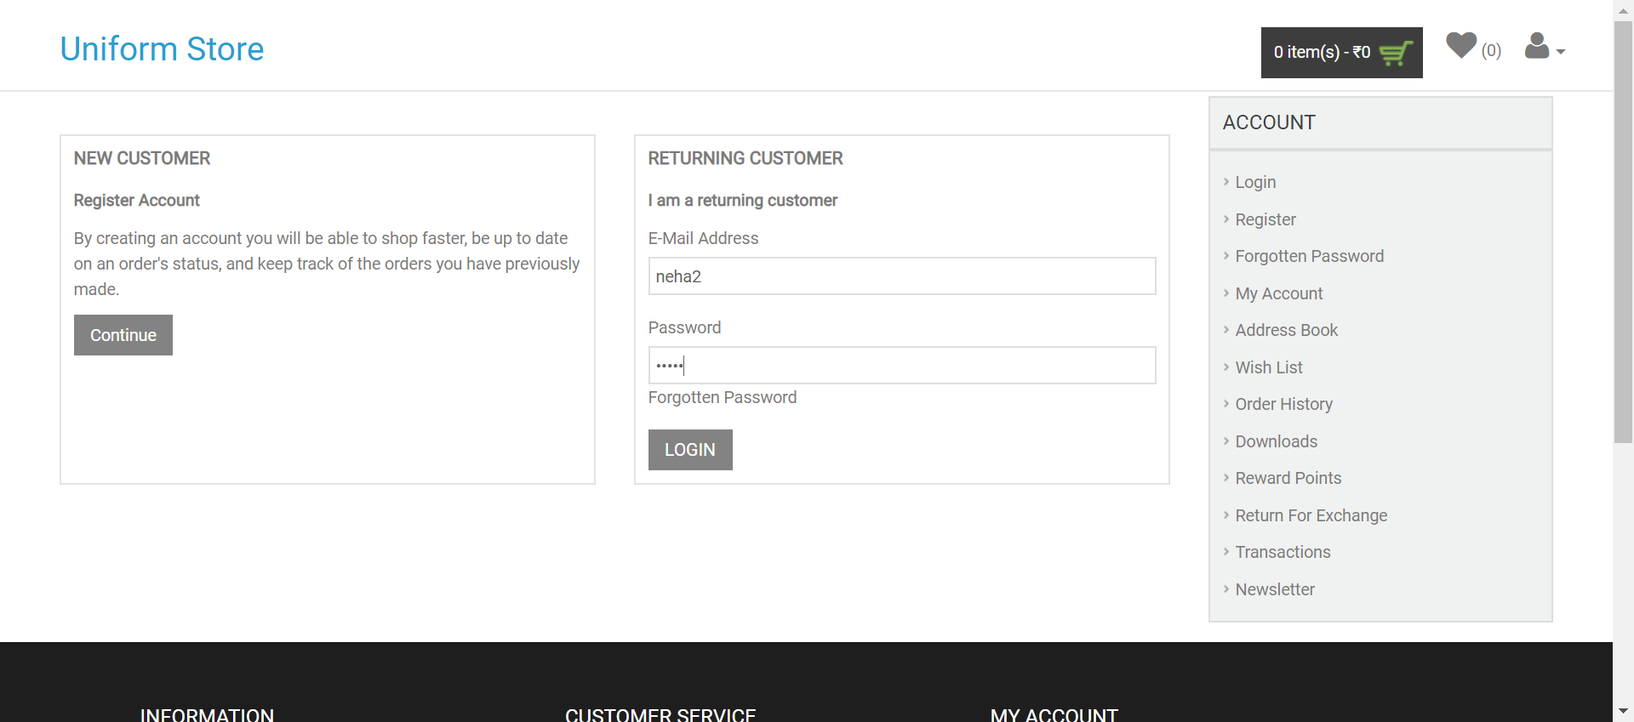
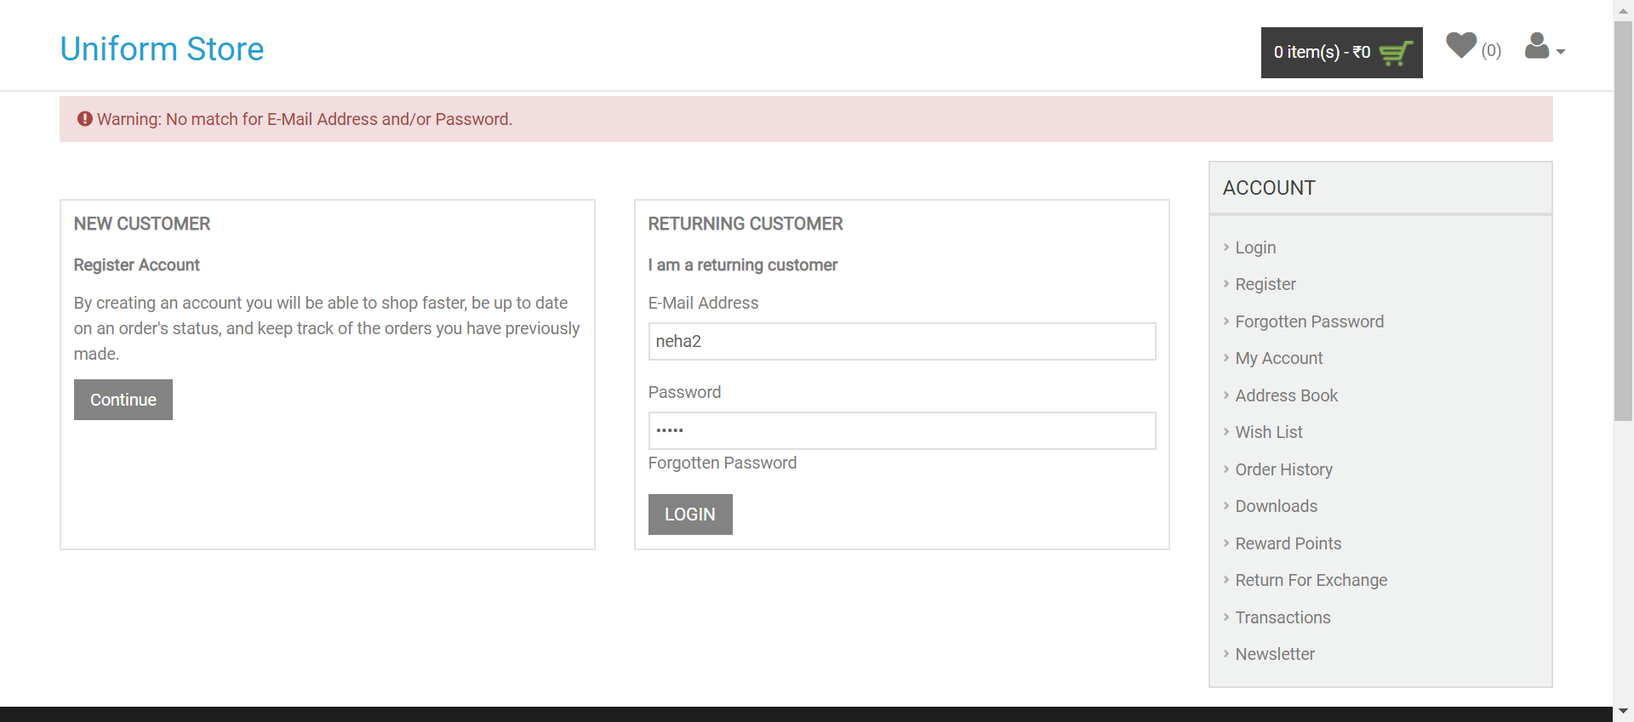
MultipleInputs

Changed region(s): [[0.0312, 0.1225, 0.9375, 0.7656], [0.0, 0.245, 1.0, 1.0], [0.9688, 0.5819, 1.0, 0.6125]]

diff --git a/final-framework-testng/test-output/old/Default suite/methods-alphabetical.html b/final-framework-testng/test-output/old/Default suite/methods-alphabetical.html
@@ -1,36 +1,36 @@
 <h2>Methods run, sorted chronologically</h2><h3>&gt;&gt; means before, &lt;&lt; means after</h3><p/><br/><em>Default suite</em><p/><small><i>(Hover the method name to see the test class name)</i></small><p/>
 <table border="1">
 <tr><th>Time</th><th>Delta (ms)</th><th>Suite<br>configuration</th><th>Test<br>configuration</th><th>Class<br>configuration</th><th>Groups<br>configuration</th><th>Method<br>configuration</th><th>Test<br>method</th><th>Thread</th><th>Instances</th></tr>
-<tr bgcolor="7e7986">  <td>20/03/09 15:55:36</td>   <td>0</td> <td>&nbsp;</td><td>&nbsp;</td><td>&nbsp;</td><td>&nbsp;</td><td title="&gt;&gt;Multipleinputs.setUp()[pri:0, instance:com.training.sanity.tests.Multipleinputs@55f3ddb1]">&gt;&gt;setUp</td> 
+<tr bgcolor="7e7986">  <td>20/03/09 16:36:33</td>   <td>0</td> <td>&nbsp;</td><td>&nbsp;</td><td>&nbsp;</td><td>&nbsp;</td><td title="&gt;&gt;Multipleinputs.setUp()[pri:0, instance:com.training.sanity.tests.Multipleinputs@55f3ddb1]">&gt;&gt;setUp</td> 
 <td>&nbsp;</td>  <td>main@1333592072</td>   <td></td> </tr>
-<tr bgcolor="7e7986">  <td>20/03/09 15:55:59</td>   <td>22910</td> <td>&nbsp;</td><td>&nbsp;</td><td>&nbsp;</td><td>&nbsp;</td><td title="&gt;&gt;Multipleinputs.setUp()[pri:0, instance:com.training.sanity.tests.Multipleinputs@55f3ddb1]">&gt;&gt;setUp</td> 
+<tr bgcolor="7e7986">  <td>20/03/09 16:36:57</td>   <td>24700</td> <td>&nbsp;</td><td>&nbsp;</td><td>&nbsp;</td><td>&nbsp;</td><td title="&gt;&gt;Multipleinputs.setUp()[pri:0, instance:com.training.sanity.tests.Multipleinputs@55f3ddb1]">&gt;&gt;setUp</td> 
 <td>&nbsp;</td>  <td>main@1333592072</td>   <td></td> </tr>
-<tr bgcolor="7e7986">  <td>20/03/09 15:56:19</td>   <td>43765</td> <td>&nbsp;</td><td>&nbsp;</td><td>&nbsp;</td><td>&nbsp;</td><td title="&gt;&gt;Multipleinputs.setUp()[pri:0, instance:com.training.sanity.tests.Multipleinputs@55f3ddb1]">&gt;&gt;setUp</td> 
+<tr bgcolor="7e7986">  <td>20/03/09 16:37:20</td>   <td>47680</td> <td>&nbsp;</td><td>&nbsp;</td><td>&nbsp;</td><td>&nbsp;</td><td title="&gt;&gt;Multipleinputs.setUp()[pri:0, instance:com.training.sanity.tests.Multipleinputs@55f3ddb1]">&gt;&gt;setUp</td> 
 <td>&nbsp;</td>  <td>main@1333592072</td>   <td></td> </tr>
-<tr bgcolor="7e7986">  <td>20/03/09 15:56:41</td>   <td>65629</td> <td>&nbsp;</td><td>&nbsp;</td><td>&nbsp;</td><td>&nbsp;</td><td title="&gt;&gt;Multipleinputs.setUp()[pri:0, instance:com.training.sanity.tests.Multipleinputs@55f3ddb1]">&gt;&gt;setUp</td> 
+<tr bgcolor="7e7986">  <td>20/03/09 16:37:43</td>   <td>70365</td> <td>&nbsp;</td><td>&nbsp;</td><td>&nbsp;</td><td>&nbsp;</td><td title="&gt;&gt;Multipleinputs.setUp()[pri:0, instance:com.training.sanity.tests.Multipleinputs@55f3ddb1]">&gt;&gt;setUp</td> 
 <td>&nbsp;</td>  <td>main@1333592072</td>   <td></td> </tr>
-<tr bgcolor="7e7986">  <td>20/03/09 15:57:02</td>   <td>86717</td> <td>&nbsp;</td><td>&nbsp;</td><td>&nbsp;</td><td>&nbsp;</td><td title="&gt;&gt;Multipleinputs.setUp()[pri:0, instance:com.training.sanity.tests.Multipleinputs@55f3ddb1]">&gt;&gt;setUp</td> 
+<tr bgcolor="7e7986">  <td>20/03/09 16:38:05</td>   <td>92843</td> <td>&nbsp;</td><td>&nbsp;</td><td>&nbsp;</td><td>&nbsp;</td><td title="&gt;&gt;Multipleinputs.setUp()[pri:0, instance:com.training.sanity.tests.Multipleinputs@55f3ddb1]">&gt;&gt;setUp</td> 
 <td>&nbsp;</td>  <td>main@1333592072</td>   <td></td> </tr>
-<tr bgcolor="7e7986">  <td>20/03/09 15:55:34</td>   <td>-1184</td> <td>&nbsp;</td><td>&nbsp;</td><td title="&gt;&gt;Multipleinputs.setUpBeforeClass()[pri:0, instance:com.training.sanity.tests.Multipleinputs@55f3ddb1]">&gt;&gt;setUpBeforeClass</td> 
+<tr bgcolor="7e7986">  <td>20/03/09 16:36:32</td>   <td>-853</td> <td>&nbsp;</td><td>&nbsp;</td><td title="&gt;&gt;Multipleinputs.setUpBeforeClass()[pri:0, instance:com.training.sanity.tests.Multipleinputs@55f3ddb1]">&gt;&gt;setUpBeforeClass</td> 
 <td>&nbsp;</td><td>&nbsp;</td><td>&nbsp;</td>  <td>main@1333592072</td>   <td></td> </tr>
-<tr bgcolor="7e7986">  <td>20/03/09 15:55:56</td>   <td>20582</td> <td>&nbsp;</td><td>&nbsp;</td><td>&nbsp;</td><td>&nbsp;</td><td title="&lt;&lt;Multipleinputs.tearDown()[pri:0, instance:com.training.sanity.tests.Multipleinputs@55f3ddb1]">&lt;&lt;tearDown</td> 
+<tr bgcolor="7e7986">  <td>20/03/09 16:36:55</td>   <td>22697</td> <td>&nbsp;</td><td>&nbsp;</td><td>&nbsp;</td><td>&nbsp;</td><td title="&lt;&lt;Multipleinputs.tearDown()[pri:0, instance:com.training.sanity.tests.Multipleinputs@55f3ddb1]">&lt;&lt;tearDown</td> 
 <td>&nbsp;</td>  <td>main@1333592072</td>   <td></td> </tr>
-<tr bgcolor="7e7986">  <td>20/03/09 15:56:17</td>   <td>41504</td> <td>&nbsp;</td><td>&nbsp;</td><td>&nbsp;</td><td>&nbsp;</td><td title="&lt;&lt;Multipleinputs.tearDown()[pri:0, instance:com.training.sanity.tests.Multipleinputs@55f3ddb1]">&lt;&lt;tearDown</td> 
+<tr bgcolor="7e7986">  <td>20/03/09 16:37:18</td>   <td>45474</td> <td>&nbsp;</td><td>&nbsp;</td><td>&nbsp;</td><td>&nbsp;</td><td title="&lt;&lt;Multipleinputs.tearDown()[pri:0, instance:com.training.sanity.tests.Multipleinputs@55f3ddb1]">&lt;&lt;tearDown</td> 
 <td>&nbsp;</td>  <td>main@1333592072</td>   <td></td> </tr>
-<tr bgcolor="7e7986">  <td>20/03/09 15:56:39</td>   <td>63433</td> <td>&nbsp;</td><td>&nbsp;</td><td>&nbsp;</td><td>&nbsp;</td><td title="&lt;&lt;Multipleinputs.tearDown()[pri:0, instance:com.training.sanity.tests.Multipleinputs@55f3ddb1]">&lt;&lt;tearDown</td> 
+<tr bgcolor="7e7986">  <td>20/03/09 16:37:41</td>   <td>68428</td> <td>&nbsp;</td><td>&nbsp;</td><td>&nbsp;</td><td>&nbsp;</td><td title="&lt;&lt;Multipleinputs.tearDown()[pri:0, instance:com.training.sanity.tests.Multipleinputs@55f3ddb1]">&lt;&lt;tearDown</td> 
 <td>&nbsp;</td>  <td>main@1333592072</td>   <td></td> </tr>
-<tr bgcolor="7e7986">  <td>20/03/09 15:57:00</td>   <td>84617</td> <td>&nbsp;</td><td>&nbsp;</td><td>&nbsp;</td><td>&nbsp;</td><td title="&lt;&lt;Multipleinputs.tearDown()[pri:0, instance:com.training.sanity.tests.Multipleinputs@55f3ddb1]">&lt;&lt;tearDown</td> 
+<tr bgcolor="7e7986">  <td>20/03/09 16:38:04</td>   <td>90867</td> <td>&nbsp;</td><td>&nbsp;</td><td>&nbsp;</td><td>&nbsp;</td><td title="&lt;&lt;Multipleinputs.tearDown()[pri:0, instance:com.training.sanity.tests.Multipleinputs@55f3ddb1]">&lt;&lt;tearDown</td> 
 <td>&nbsp;</td>  <td>main@1333592072</td>   <td></td> </tr>
-<tr bgcolor="7e7986">  <td>20/03/09 15:57:20</td>   <td>104429</td> <td>&nbsp;</td><td>&nbsp;</td><td>&nbsp;</td><td>&nbsp;</td><td title="&lt;&lt;Multipleinputs.tearDown()[pri:0, instance:com.training.sanity.tests.Multipleinputs@55f3ddb1]">&lt;&lt;tearDown</td> 
+<tr bgcolor="7e7986">  <td>20/03/09 16:38:26</td>   <td>112917</td> <td>&nbsp;</td><td>&nbsp;</td><td>&nbsp;</td><td>&nbsp;</td><td title="&lt;&lt;Multipleinputs.tearDown()[pri:0, instance:com.training.sanity.tests.Multipleinputs@55f3ddb1]">&lt;&lt;tearDown</td> 
 <td>&nbsp;</td>  <td>main@1333592072</td>   <td></td> </tr>
-<tr bgcolor="7e7986">  <td>20/03/09 15:55:53</td>   <td>17459</td> <td>&nbsp;</td><td>&nbsp;</td><td>&nbsp;</td><td>&nbsp;</td><td>&nbsp;</td><td title="Multipleinputs.validLoginTest(java.lang.String, java.lang.String, java.lang.String)[pri:0, instance:com.training.sanity.tests.Multipleinputs@55f3ddb1]">validLoginTest</td> 
+<tr bgcolor="7e7986">  <td>20/03/09 16:36:51</td>   <td>18581</td> <td>&nbsp;</td><td>&nbsp;</td><td>&nbsp;</td><td>&nbsp;</td><td>&nbsp;</td><td title="Multipleinputs.validLoginTest(java.lang.String, java.lang.String, java.lang.String)[pri:0, instance:com.training.sanity.tests.Multipleinputs@55f3ddb1]">validLoginTest</td> 
   <td>main@1333592072</td>   <td></td> </tr>
-<tr bgcolor="7e7986">  <td>20/03/09 15:56:14</td>   <td>38418</td> <td>&nbsp;</td><td>&nbsp;</td><td>&nbsp;</td><td>&nbsp;</td><td>&nbsp;</td><td title="Multipleinputs.validLoginTest(java.lang.String, java.lang.String, java.lang.String)[pri:0, instance:com.training.sanity.tests.Multipleinputs@55f3ddb1]">validLoginTest</td> 
+<tr bgcolor="7e7986">  <td>20/03/09 16:37:13</td>   <td>40048</td> <td>&nbsp;</td><td>&nbsp;</td><td>&nbsp;</td><td>&nbsp;</td><td>&nbsp;</td><td title="Multipleinputs.validLoginTest(java.lang.String, java.lang.String, java.lang.String)[pri:0, instance:com.training.sanity.tests.Multipleinputs@55f3ddb1]">validLoginTest</td> 
   <td>main@1333592072</td>   <td></td> </tr>
-<tr bgcolor="7e7986">  <td>20/03/09 15:56:35</td>   <td>59733</td> <td>&nbsp;</td><td>&nbsp;</td><td>&nbsp;</td><td>&nbsp;</td><td>&nbsp;</td><td title="Multipleinputs.validLoginTest(java.lang.String, java.lang.String, java.lang.String)[pri:0, instance:com.training.sanity.tests.Multipleinputs@55f3ddb1]">validLoginTest</td> 
+<tr bgcolor="7e7986">  <td>20/03/09 16:37:37</td>   <td>64130</td> <td>&nbsp;</td><td>&nbsp;</td><td>&nbsp;</td><td>&nbsp;</td><td>&nbsp;</td><td title="Multipleinputs.validLoginTest(java.lang.String, java.lang.String, java.lang.String)[pri:0, instance:com.training.sanity.tests.Multipleinputs@55f3ddb1]">validLoginTest</td> 
   <td>main@1333592072</td>   <td></td> </tr>
-<tr bgcolor="7e7986">  <td>20/03/09 15:56:58</td>   <td>82116</td> <td>&nbsp;</td><td>&nbsp;</td><td>&nbsp;</td><td>&nbsp;</td><td>&nbsp;</td><td title="Multipleinputs.validLoginTest(java.lang.String, java.lang.String, java.lang.String)[pri:0, instance:com.training.sanity.tests.Multipleinputs@55f3ddb1]">validLoginTest</td> 
+<tr bgcolor="7e7986">  <td>20/03/09 16:37:59</td>   <td>86606</td> <td>&nbsp;</td><td>&nbsp;</td><td>&nbsp;</td><td>&nbsp;</td><td>&nbsp;</td><td title="Multipleinputs.validLoginTest(java.lang.String, java.lang.String, java.lang.String)[pri:0, instance:com.training.sanity.tests.Multipleinputs@55f3ddb1]">validLoginTest</td> 
   <td>main@1333592072</td>   <td></td> </tr>
-<tr bgcolor="7e7986">  <td>20/03/09 15:57:17</td>   <td>101831</td> <td>&nbsp;</td><td>&nbsp;</td><td>&nbsp;</td><td>&nbsp;</td><td>&nbsp;</td><td title="Multipleinputs.validLoginTest(java.lang.String, java.lang.String, java.lang.String)[pri:0, instance:com.training.sanity.tests.Multipleinputs@55f3ddb1]">validLoginTest</td> 
+<tr bgcolor="7e7986">  <td>20/03/09 16:38:21</td>   <td>108629</td> <td>&nbsp;</td><td>&nbsp;</td><td>&nbsp;</td><td>&nbsp;</td><td>&nbsp;</td><td title="Multipleinputs.validLoginTest(java.lang.String, java.lang.String, java.lang.String)[pri:0, instance:com.training.sanity.tests.Multipleinputs@55f3ddb1]">validLoginTest</td> 
   <td>main@1333592072</td>   <td></td> </tr>
 </table>

diff --git a/final-framework-testng/test-output/old/Default suite/methods.html b/final-framework-testng/test-output/old/Default suite/methods.html
@@ -1,36 +1,36 @@
 <h2>Methods run, sorted chronologically</h2><h3>&gt;&gt; means before, &lt;&lt; means after</h3><p/><br/><em>Default suite</em><p/><small><i>(Hover the method name to see the test class name)</i></small><p/>
 <table border="1">
 <tr><th>Time</th><th>Delta (ms)</th><th>Suite<br>configuration</th><th>Test<br>configuration</th><th>Class<br>configuration</th><th>Groups<br>configuration</th><th>Method<br>configuration</th><th>Test<br>method</th><th>Thread</th><th>Instances</th></tr>
-<tr bgcolor="7e7986">  <td>20/03/09 15:55:34</td>   <td>0</td> <td>&nbsp;</td><td>&nbsp;</td><td title="&gt;&gt;Multipleinputs.setUpBeforeClass()[pri:0, instance:com.training.sanity.tests.Multipleinputs@55f3ddb1]">&gt;&gt;setUpBeforeClass</td> 
+<tr bgcolor="7e7986">  <td>20/03/09 16:36:32</td>   <td>0</td> <td>&nbsp;</td><td>&nbsp;</td><td title="&gt;&gt;Multipleinputs.setUpBeforeClass()[pri:0, instance:com.training.sanity.tests.Multipleinputs@55f3ddb1]">&gt;&gt;setUpBeforeClass</td> 
 <td>&nbsp;</td><td>&nbsp;</td><td>&nbsp;</td>  <td>main@1333592072</td>   <td></td> </tr>
-<tr bgcolor="7e7986">  <td>20/03/09 15:55:36</td>   <td>1184</td> <td>&nbsp;</td><td>&nbsp;</td><td>&nbsp;</td><td>&nbsp;</td><td title="&gt;&gt;Multipleinputs.setUp()[pri:0, instance:com.training.sanity.tests.Multipleinputs@55f3ddb1]">&gt;&gt;setUp</td> 
+<tr bgcolor="7e7986">  <td>20/03/09 16:36:33</td>   <td>853</td> <td>&nbsp;</td><td>&nbsp;</td><td>&nbsp;</td><td>&nbsp;</td><td title="&gt;&gt;Multipleinputs.setUp()[pri:0, instance:com.training.sanity.tests.Multipleinputs@55f3ddb1]">&gt;&gt;setUp</td> 
 <td>&nbsp;</td>  <td>main@1333592072</td>   <td></td> </tr>
-<tr bgcolor="7e7986">  <td>20/03/09 15:55:53</td>   <td>18643</td> <td>&nbsp;</td><td>&nbsp;</td><td>&nbsp;</td><td>&nbsp;</td><td>&nbsp;</td><td title="Multipleinputs.validLoginTest(java.lang.String, java.lang.String, java.lang.String)[pri:0, instance:com.training.sanity.tests.Multipleinputs@55f3ddb1]">validLoginTest</td> 
+<tr bgcolor="7e7986">  <td>20/03/09 16:36:51</td>   <td>19434</td> <td>&nbsp;</td><td>&nbsp;</td><td>&nbsp;</td><td>&nbsp;</td><td>&nbsp;</td><td title="Multipleinputs.validLoginTest(java.lang.String, java.lang.String, java.lang.String)[pri:0, instance:com.training.sanity.tests.Multipleinputs@55f3ddb1]">validLoginTest</td> 
   <td>main@1333592072</td>   <td></td> </tr>
-<tr bgcolor="7e7986">  <td>20/03/09 15:55:56</td>   <td>21766</td> <td>&nbsp;</td><td>&nbsp;</td><td>&nbsp;</td><td>&nbsp;</td><td title="&lt;&lt;Multipleinputs.tearDown()[pri:0, instance:com.training.sanity.tests.Multipleinputs@55f3ddb1]">&lt;&lt;tearDown</td> 
+<tr bgcolor="7e7986">  <td>20/03/09 16:36:55</td>   <td>23550</td> <td>&nbsp;</td><td>&nbsp;</td><td>&nbsp;</td><td>&nbsp;</td><td title="&lt;&lt;Multipleinputs.tearDown()[pri:0, instance:com.training.sanity.tests.Multipleinputs@55f3ddb1]">&lt;&lt;tearDown</td> 
 <td>&nbsp;</td>  <td>main@1333592072</td>   <td></td> </tr>
-<tr bgcolor="7e7986">  <td>20/03/09 15:55:59</td>   <td>24094</td> <td>&nbsp;</td><td>&nbsp;</td><td>&nbsp;</td><td>&nbsp;</td><td title="&gt;&gt;Multipleinputs.setUp()[pri:0, instance:com.training.sanity.tests.Multipleinputs@55f3ddb1]">&gt;&gt;setUp</td> 
+<tr bgcolor="7e7986">  <td>20/03/09 16:36:57</td>   <td>25553</td> <td>&nbsp;</td><td>&nbsp;</td><td>&nbsp;</td><td>&nbsp;</td><td title="&gt;&gt;Multipleinputs.setUp()[pri:0, instance:com.training.sanity.tests.Multipleinputs@55f3ddb1]">&gt;&gt;setUp</td> 
 <td>&nbsp;</td>  <td>main@1333592072</td>   <td></td> </tr>
-<tr bgcolor="7e7986">  <td>20/03/09 15:56:14</td>   <td>39602</td> <td>&nbsp;</td><td>&nbsp;</td><td>&nbsp;</td><td>&nbsp;</td><td>&nbsp;</td><td title="Multipleinputs.validLoginTest(java.lang.String, java.lang.String, java.lang.String)[pri:0, instance:com.training.sanity.tests.Multipleinputs@55f3ddb1]">validLoginTest</td> 
+<tr bgcolor="7e7986">  <td>20/03/09 16:37:13</td>   <td>40901</td> <td>&nbsp;</td><td>&nbsp;</td><td>&nbsp;</td><td>&nbsp;</td><td>&nbsp;</td><td title="Multipleinputs.validLoginTest(java.lang.String, java.lang.String, java.lang.String)[pri:0, instance:com.training.sanity.tests.Multipleinputs@55f3ddb1]">validLoginTest</td> 
   <td>main@1333592072</td>   <td></td> </tr>
-<tr bgcolor="7e7986">  <td>20/03/09 15:56:17</td>   <td>42688</td> <td>&nbsp;</td><td>&nbsp;</td><td>&nbsp;</td><td>&nbsp;</td><td title="&lt;&lt;Multipleinputs.tearDown()[pri:0, instance:com.training.sanity.tests.Multipleinputs@55f3ddb1]">&lt;&lt;tearDown</td> 
+<tr bgcolor="7e7986">  <td>20/03/09 16:37:18</td>   <td>46327</td> <td>&nbsp;</td><td>&nbsp;</td><td>&nbsp;</td><td>&nbsp;</td><td title="&lt;&lt;Multipleinputs.tearDown()[pri:0, instance:com.training.sanity.tests.Multipleinputs@55f3ddb1]">&lt;&lt;tearDown</td> 
 <td>&nbsp;</td>  <td>main@1333592072</td>   <td></td> </tr>
-<tr bgcolor="7e7986">  <td>20/03/09 15:56:19</td>   <td>44949</td> <td>&nbsp;</td><td>&nbsp;</td><td>&nbsp;</td><td>&nbsp;</td><td title="&gt;&gt;Multipleinputs.setUp()[pri:0, instance:com.training.sanity.tests.Multipleinputs@55f3ddb1]">&gt;&gt;setUp</td> 
+<tr bgcolor="7e7986">  <td>20/03/09 16:37:20</td>   <td>48533</td> <td>&nbsp;</td><td>&nbsp;</td><td>&nbsp;</td><td>&nbsp;</td><td title="&gt;&gt;Multipleinputs.setUp()[pri:0, instance:com.training.sanity.tests.Multipleinputs@55f3ddb1]">&gt;&gt;setUp</td> 
 <td>&nbsp;</td>  <td>main@1333592072</td>   <td></td> </tr>
-<tr bgcolor="7e7986">  <td>20/03/09 15:56:35</td>   <td>60917</td> <td>&nbsp;</td><td>&nbsp;</td><td>&nbsp;</td><td>&nbsp;</td><td>&nbsp;</td><td title="Multipleinputs.validLoginTest(java.lang.String, java.lang.String, java.lang.String)[pri:0, instance:com.training.sanity.tests.Multipleinputs@55f3ddb1]">validLoginTest</td> 
+<tr bgcolor="7e7986">  <td>20/03/09 16:37:37</td>   <td>64983</td> <td>&nbsp;</td><td>&nbsp;</td><td>&nbsp;</td><td>&nbsp;</td><td>&nbsp;</td><td title="Multipleinputs.validLoginTest(java.lang.String, java.lang.String, java.lang.String)[pri:0, instance:com.training.sanity.tests.Multipleinputs@55f3ddb1]">validLoginTest</td> 
   <td>main@1333592072</td>   <td></td> </tr>
-<tr bgcolor="7e7986">  <td>20/03/09 15:56:39</td>   <td>64617</td> <td>&nbsp;</td><td>&nbsp;</td><td>&nbsp;</td><td>&nbsp;</td><td title="&lt;&lt;Multipleinputs.tearDown()[pri:0, instance:com.training.sanity.tests.Multipleinputs@55f3ddb1]">&lt;&lt;tearDown</td> 
+<tr bgcolor="7e7986">  <td>20/03/09 16:37:41</td>   <td>69281</td> <td>&nbsp;</td><td>&nbsp;</td><td>&nbsp;</td><td>&nbsp;</td><td title="&lt;&lt;Multipleinputs.tearDown()[pri:0, instance:com.training.sanity.tests.Multipleinputs@55f3ddb1]">&lt;&lt;tearDown</td> 
 <td>&nbsp;</td>  <td>main@1333592072</td>   <td></td> </tr>
-<tr bgcolor="7e7986">  <td>20/03/09 15:56:41</td>   <td>66813</td> <td>&nbsp;</td><td>&nbsp;</td><td>&nbsp;</td><td>&nbsp;</td><td title="&gt;&gt;Multipleinputs.setUp()[pri:0, instance:com.training.sanity.tests.Multipleinputs@55f3ddb1]">&gt;&gt;setUp</td> 
+<tr bgcolor="7e7986">  <td>20/03/09 16:37:43</td>   <td>71218</td> <td>&nbsp;</td><td>&nbsp;</td><td>&nbsp;</td><td>&nbsp;</td><td title="&gt;&gt;Multipleinputs.setUp()[pri:0, instance:com.training.sanity.tests.Multipleinputs@55f3ddb1]">&gt;&gt;setUp</td> 
 <td>&nbsp;</td>  <td>main@1333592072</td>   <td></td> </tr>
-<tr bgcolor="7e7986">  <td>20/03/09 15:56:58</td>   <td>83300</td> <td>&nbsp;</td><td>&nbsp;</td><td>&nbsp;</td><td>&nbsp;</td><td>&nbsp;</td><td title="Multipleinputs.validLoginTest(java.lang.String, java.lang.String, java.lang.String)[pri:0, instance:com.training.sanity.tests.Multipleinputs@55f3ddb1]">validLoginTest</td> 
+<tr bgcolor="7e7986">  <td>20/03/09 16:37:59</td>   <td>87459</td> <td>&nbsp;</td><td>&nbsp;</td><td>&nbsp;</td><td>&nbsp;</td><td>&nbsp;</td><td title="Multipleinputs.validLoginTest(java.lang.String, java.lang.String, java.lang.String)[pri:0, instance:com.training.sanity.tests.Multipleinputs@55f3ddb1]">validLoginTest</td> 
   <td>main@1333592072</td>   <td></td> </tr>
-<tr bgcolor="7e7986">  <td>20/03/09 15:57:00</td>   <td>85801</td> <td>&nbsp;</td><td>&nbsp;</td><td>&nbsp;</td><td>&nbsp;</td><td title="&lt;&lt;Multipleinputs.tearDown()[pri:0, instance:com.training.sanity.tests.Multipleinputs@55f3ddb1]">&lt;&lt;tearDown</td> 
+<tr bgcolor="7e7986">  <td>20/03/09 16:38:04</td>   <td>91720</td> <td>&nbsp;</td><td>&nbsp;</td><td>&nbsp;</td><td>&nbsp;</td><td title="&lt;&lt;Multipleinputs.tearDown()[pri:0, instance:com.training.sanity.tests.Multipleinputs@55f3ddb1]">&lt;&lt;tearDown</td> 
 <td>&nbsp;</td>  <td>main@1333592072</td>   <td></td> </tr>
-<tr bgcolor="7e7986">  <td>20/03/09 15:57:02</td>   <td>87901</td> <td>&nbsp;</td><td>&nbsp;</td><td>&nbsp;</td><td>&nbsp;</td><td title="&gt;&gt;Multipleinputs.setUp()[pri:0, instance:com.training.sanity.tests.Multipleinputs@55f3ddb1]">&gt;&gt;setUp</td> 
+<tr bgcolor="7e7986">  <td>20/03/09 16:38:05</td>   <td>93696</td> <td>&nbsp;</td><td>&nbsp;</td><td>&nbsp;</td><td>&nbsp;</td><td title="&gt;&gt;Multipleinputs.setUp()[pri:0, instance:com.training.sanity.tests.Multipleinputs@55f3ddb1]">&gt;&gt;setUp</td> 
 <td>&nbsp;</td>  <td>main@1333592072</td>   <td></td> </tr>
-<tr bgcolor="7e7986">  <td>20/03/09 15:57:17</td>   <td>103015</td> <td>&nbsp;</td><td>&nbsp;</td><td>&nbsp;</td><td>&nbsp;</td><td>&nbsp;</td><td title="Multipleinputs.validLoginTest(java.lang.String, java.lang.String, java.lang.String)[pri:0, instance:com.training.sanity.tests.Multipleinputs@55f3ddb1]">validLoginTest</td> 
+<tr bgcolor="7e7986">  <td>20/03/09 16:38:21</td>   <td>109482</td> <td>&nbsp;</td><td>&nbsp;</td><td>&nbsp;</td><td>&nbsp;</td><td>&nbsp;</td><td title="Multipleinputs.validLoginTest(java.lang.String, java.lang.String, java.lang.String)[pri:0, instance:com.training.sanity.tests.Multipleinputs@55f3ddb1]">validLoginTest</td> 
   <td>main@1333592072</td>   <td></td> </tr>
-<tr bgcolor="7e7986">  <td>20/03/09 15:57:20</td>   <td>105613</td> <td>&nbsp;</td><td>&nbsp;</td><td>&nbsp;</td><td>&nbsp;</td><td title="&lt;&lt;Multipleinputs.tearDown()[pri:0, instance:com.training.sanity.tests.Multipleinputs@55f3ddb1]">&lt;&lt;tearDown</td> 
+<tr bgcolor="7e7986">  <td>20/03/09 16:38:26</td>   <td>113770</td> <td>&nbsp;</td><td>&nbsp;</td><td>&nbsp;</td><td>&nbsp;</td><td title="&lt;&lt;Multipleinputs.tearDown()[pri:0, instance:com.training.sanity.tests.Multipleinputs@55f3ddb1]">&lt;&lt;tearDown</td> 
 <td>&nbsp;</td>  <td>main@1333592072</td>   <td></td> </tr>
 </table>

diff --git a/final-framework-testng/test-output/index.html b/final-framework-testng/test-output/index.html
@@ -49,7 +49,7 @@
               <ul>
                 <li>
                   <a href="#" class="navigator-link " panel-name="test-xml-Default_suite">
-                    <span>C:\Users\ThriveniGorantla\AppData\Local\Temp\testng-eclipse--870478166\testng-customsuite.xml</span>
+                    <span>C:\Users\ThriveniGorantla\AppData\Local\Temp\testng-eclipse-1429675520\testng-customsuite.xml</span>
                   </a> <!-- navigator-link  -->
                 </li>
                 <li>
@@ -188,7 +188,7 @@
         </div> <!-- panel Default_suite -->
         <div panel-name="test-xml-Default_suite" class="panel">
           <div class="main-panel-header rounded-window-top">
-            <span class="header-content">C:\Users\ThriveniGorantla\AppData\Local\Temp\testng-eclipse--870478166\testng-customsuite.xml</span>
+            <span class="header-content">C:\Users\ThriveniGorantla\AppData\Local\Temp\testng-eclipse-1429675520\testng-customsuite.xml</span>
           </div> <!-- main-panel-header rounded-window-top -->
           <div class="main-panel-content rounded-window-bottom">
             <pre>
@@ -241,28 +241,28 @@ data.addRows(5);
 data.setCell(0, 0, 0)
 data.setCell(0, 1, 'validLoginTest')
 data.setCell(0, 2, 'com.training.sanity.tests.Multipleinputs')
-data.setCell(0, 3, 3699);
+data.setCell(0, 3, 5425);
 data.setCell(1, 0, 1)
 data.setCell(1, 1, 'validLoginTest')
 data.setCell(1, 2, 'com.training.sanity.tests.Multipleinputs')
-data.setCell(1, 3, 3118);
+data.setCell(1, 3, 4297);
 data.setCell(2, 0, 2)
 data.setCell(2, 1, 'validLoginTest')
 data.setCell(2, 2, 'com.training.sanity.tests.Multipleinputs')
-data.setCell(2, 3, 3084);
+data.setCell(2, 3, 4286);
 data.setCell(3, 0, 3)
 data.setCell(3, 1, 'validLoginTest')
 data.setCell(3, 2, 'com.training.sanity.tests.Multipleinputs')
-data.setCell(3, 3, 2597);
+data.setCell(3, 3, 4259);
 data.setCell(4, 0, 4)
 data.setCell(4, 1, 'validLoginTest')
 data.setCell(4, 2, 'com.training.sanity.tests.Multipleinputs')
-data.setCell(4, 3, 2500);
+data.setCell(4, 3, 4111);
 window.suiteTableData['Default_suite']= { tableData: data, tableDiv: 'times-div-Default_suite'}
 return data;
 }
               </script>
-              <span class="suite-total-time">Total running time: 14 seconds</span>
+              <span class="suite-total-time">Total running time: 22 seconds</span>
               <div id="times-div-Default_suite">
               </div> <!-- times-div-Default_suite -->
             </div> <!-- times-div -->
@@ -295,63 +295,63 @@ return data;
               </div> <!-- configuration-class before -->
               <div class="configuration-method before">
                 <span class="method-name">setUp</span>
-                <span class="method-start">1188 ms</span>
+                <span class="method-start">859 ms</span>
               </div> <!-- configuration-method before -->
               <div class="test-method">
                 <span class="method-name">validLoginTest(Fields Name, E-Mail, Password)</span>
-                <span class="method-start">18650 ms</span>
+                <span class="method-start">19441 ms</span>
               </div> <!-- test-method -->
               <div class="configuration-method after">
                 <span class="method-name">tearDown</span>
-                <span class="method-start">21773 ms</span>
+                <span class="method-start">23557 ms</span>
               </div> <!-- configuration-method after -->
               <div class="configuration-method before">
                 <span class="method-name">setUp</span>
-                <span class="method-start">24101 ms</span>
+                <span class="method-start">25560 ms</span>
               </div> <!-- configuration-method before -->
               <div class="test-method">
                 <span class="method-name">validLoginTest(Test Data 1, neha@gmail.com, 23445.0)</span>
-                <span class="method-start">39609 ms</span>
+                <span class="method-start">40908 ms</span>
               </div> <!-- test-method -->
               <div class="configuration-method after">
                 <span class="method-name">tearDown</span>
-                <span class="method-start">42695 ms</span>
+                <span class="method-start">46334 ms</span>
               </div> <!-- configuration-method after -->
               <div class="configuration-method before">
                 <span class="method-name">setUp</span>
-                <span class="method-start">44956 ms</span>
+                <span class="method-start">48540 ms</span>
               </div> <!-- configuration-method before -->
               <div class="test-method">
                 <span class="method-name">validLoginTest(Test Data 2, neha, neha)</span>
-                <span class="method-start">60924 ms</span>
+                <span class="method-start">64990 ms</span>
               </div> <!-- test-method -->
               <div class="configuration-method after">
                 <span class="method-name">tearDown</span>
-                <span class="method-start">64624 ms</span>
+                <span class="method-start">69288 ms</span>
               </div> <!-- configuration-method after -->
               <div class="configuration-method before">
                 <span class="method-name">setUp</span>
-                <span class="method-start">66819 ms</span>
+                <span class="method-start">71225 ms</span>
               </div> <!-- configuration-method before -->
               <div class="test-method">
                 <span class="method-name">validLoginTest(Test Data 3, neha, sharma)</span>
-                <span class="method-start">83307 ms</span>
+                <span class="method-start">87466 ms</span>
               </div> <!-- test-method -->
               <div class="configuration-method after">
                 <span class="method-name">tearDown</span>
-                <span class="method-start">85808 ms</span>
+                <span class="method-start">91726 ms</span>
               </div> <!-- configuration-method after -->
               <div class="configuration-method before">
                 <span class="method-name">setUp</span>
-                <span class="method-start">87908 ms</span>
+                <span class="method-start">93703 ms</span>
               </div> <!-- configuration-method before -->
               <div class="test-method">
                 <span class="method-name">validLoginTest(Test Data 4, neha2, neha2)</span>
-                <span class="method-start">103022 ms</span>
+                <span class="method-start">109489 ms</span>
               </div> <!-- test-method -->
               <div class="configuration-method after">
                 <span class="method-name">tearDown</span>
-                <span class="method-start">105620 ms</span>
+                <span class="method-start">113777 ms</span>
               </div> <!-- configuration-method after -->
           </div> <!-- main-panel-content rounded-window-bottom -->
         </div> <!-- panel -->

diff --git a/final-framework-testng/test-output/emailable-report.html b/final-framework-testng/test-output/emailable-report.html
@@ -1,2 +1,2 @@
 <!DOCTYPE html PUBLIC "-//W3C//DTD XHTML 1.1//EN" "http://www.w3.org/TR/xhtml11/DTD/xhtml11.dtd">
-<html xmlns="http://www.w3.org/1999/xhtml"><head><title>TestNG Report</title><style type="text/css">table {margin-bottom:10px;border-collapse:collapse;empty-cells:show}th,td {border:1px solid #009;padding:.25em .5em}th {vertical-align:bottom}td {vertical-align:top}table a {font-weight:bold}.stripe td {background-color: #E6EBF9}.num {text-align:right}.passedodd td {background-color: #3F3}.passedeven td {background-color: #0A0}.skippedodd td {background-color: #DDD}.skippedeven td {background-color: #CCC}.failedodd td,.attn {background-color: #F33}.failedeven td,.stripe .attn {background-color: #D00}.stacktrace {white-space:pre;font-family:monospace}.totop {font-size:85%;text-align:center;border-bottom:2px solid #000}</style></head><body><table><tr><th>Test</th><th># Passed</th><th># Skipped</th><th># Failed</th><th>Time (ms)</th><th>Included Groups</th><th>Excluded Groups</th></tr><tr><th colspan="7">Default suite</th></tr><tr><td><a href="#t0">Default test</a></td><td class="num">5</td><td class="num">0</td><td class="num">0</td><td class="num">107,757</td><td></td><td></td></tr></table><table id='summary'><thead><tr><th>Class</th><th>Method</th><th>Start</th><th>Time (ms)</th></tr></thead><tbody><tr><th colspan="4">Default suite</th></tr></tbody><tbody id="t0"><tr><th colspan="4">Default test &#8212; passed</th></tr><tr class="passedeven"><td rowspan="5">com.training.sanity.tests.Multipleinputs</td><td><a href="#m0">validLoginTest</a></td><td rowspan="5">1583749574546</td><td rowspan="5">3084</td></tr><tr class="passedeven"><td><a href="#m1">validLoginTest</a></td></tr><tr class="passedeven"><td><a href="#m2">validLoginTest</a></td></tr><tr class="passedeven"><td><a href="#m3">validLoginTest</a></td></tr><tr class="passedeven"><td><a href="#m4">validLoginTest</a></td></tr></tbody></table><h2>Default test</h2><h3 id="m0">com.training.sanity.tests.Multipleinputs#validLoginTest</h3><table class="result"><tr class="param"><th>Parameter #1</th><th>Parameter #2</th><th>Parameter #3</th></tr><tr class="param stripe"><td>Test Data 1</td><td>neha@gmail.com</td><td>23445.0</td></tr></table><p class="totop"><a href="#summary">back to summary</a></p><h3 id="m1">com.training.sanity.tests.Multipleinputs#validLoginTest</h3><table class="result"><tr class="param"><th>Parameter #1</th><th>Parameter #2</th><th>Parameter #3</th></tr><tr class="param stripe"><td>Test Data 4</td><td>neha2</td><td>neha2</td></tr></table><p class="totop"><a href="#summary">back to summary</a></p><h3 id="m2">com.training.sanity.tests.Multipleinputs#validLoginTest</h3><table class="result"><tr class="param"><th>Parameter #1</th><th>Parameter #2</th><th>Parameter #3</th></tr><tr class="param stripe"><td>Test Data 3</td><td>neha</td><td>sharma</td></tr></table><p class="totop"><a href="#summary">back to summary</a></p><h3 id="m3">com.training.sanity.tests.Multipleinputs#validLoginTest</h3><table class="result"><tr class="param"><th>Parameter #1</th><th>Parameter #2</th><th>Parameter #3</th></tr><tr class="param stripe"><td>Fields Name</td><td>E-Mail</td><td>Password</td></tr></table><p class="totop"><a href="#summary">back to summary</a></p><h3 id="m4">com.training.sanity.tests.Multipleinputs#validLoginTest</h3><table class="result"><tr class="param"><th>Parameter #1</th><th>Parameter #2</th><th>Parameter #3</th></tr><tr class="param stripe"><td>Test Data 2</td><td>neha</td><td>neha</td></tr></table><p class="totop"><a href="#summary">back to summary</a></p></body></html>
+<html xmlns="http://www.w3.org/1999/xhtml"><head><title>TestNG Report</title><style type="text/css">table {margin-bottom:10px;border-collapse:collapse;empty-cells:show}th,td {border:1px solid #009;padding:.25em .5em}th {vertical-align:bottom}td {vertical-align:top}table a {font-weight:bold}.stripe td {background-color: #E6EBF9}.num {text-align:right}.passedodd td {background-color: #3F3}.passedeven td {background-color: #0A0}.skippedodd td {background-color: #DDD}.skippedeven td {background-color: #CCC}.failedodd td,.attn {background-color: #F33}.failedeven td,.stripe .attn {background-color: #D00}.stacktrace {white-space:pre;font-family:monospace}.totop {font-size:85%;text-align:center;border-bottom:2px solid #000}</style></head><body><table><tr><th>Test</th><th># Passed</th><th># Skipped</th><th># Failed</th><th>Time (ms)</th><th>Included Groups</th><th>Excluded Groups</th></tr><tr><th colspan="7">Default suite</th></tr><tr><td><a href="#t0">Default test</a></td><td class="num">5</td><td class="num">0</td><td class="num">0</td><td class="num">115,773</td><td></td><td></td></tr></table><table id='summary'><thead><tr><th>Class</th><th>Method</th><th>Start</th><th>Time (ms)</th></tr></thead><tbody><tr><th colspan="4">Default suite</th></tr></tbody><tbody id="t0"><tr><th colspan="4">Default test &#8212; passed</th></tr><tr class="passedeven"><td rowspan="5">com.training.sanity.tests.Multipleinputs</td><td><a href="#m0">validLoginTest</a></td><td rowspan="5">1583752033202</td><td rowspan="5">5425</td></tr><tr class="passedeven"><td><a href="#m1">validLoginTest</a></td></tr><tr class="passedeven"><td><a href="#m2">validLoginTest</a></td></tr><tr class="passedeven"><td><a href="#m3">validLoginTest</a></td></tr><tr class="passedeven"><td><a href="#m4">validLoginTest</a></td></tr></tbody></table><h2>Default test</h2><h3 id="m0">com.training.sanity.tests.Multipleinputs#validLoginTest</h3><table class="result"><tr class="param"><th>Parameter #1</th><th>Parameter #2</th><th>Parameter #3</th></tr><tr class="param stripe"><td>Test Data 1</td><td>neha@gmail.com</td><td>23445.0</td></tr></table><p class="totop"><a href="#summary">back to summary</a></p><h3 id="m1">com.training.sanity.tests.Multipleinputs#validLoginTest</h3><table class="result"><tr class="param"><th>Parameter #1</th><th>Parameter #2</th><th>Parameter #3</th></tr><tr class="param stripe"><td>Test Data 4</td><td>neha2</td><td>neha2</td></tr></table><p class="totop"><a href="#summary">back to summary</a></p><h3 id="m2">com.training.sanity.tests.Multipleinputs#validLoginTest</h3><table class="result"><tr class="param"><th>Parameter #1</th><th>Parameter #2</th><th>Parameter #3</th></tr><tr class="param stripe"><td>Test Data 3</td><td>neha</td><td>sharma</td></tr></table><p class="totop"><a href="#summary">back to summary</a></p><h3 id="m3">com.training.sanity.tests.Multipleinputs#validLoginTest</h3><table class="result"><tr class="param"><th>Parameter #1</th><th>Parameter #2</th><th>Parameter #3</th></tr><tr class="param stripe"><td>Fields Name</td><td>E-Mail</td><td>Password</td></tr></table><p class="totop"><a href="#summary">back to summary</a></p><h3 id="m4">com.training.sanity.tests.Multipleinputs#validLoginTest</h3><table class="result"><tr class="param"><th>Parameter #1</th><th>Parameter #2</th><th>Parameter #3</th></tr><tr class="param stripe"><td>Test Data 2</td><td>neha</td><td>neha</td></tr></table><p class="totop"><a href="#summary">back to summary</a></p></body></html>

diff --git a/final-framework-testng/test-output/Default suite/Default test.html b/final-framework-testng/test-output/Default suite/Default test.html
@@ -57,9 +57,9 @@ function toggleAllBoxes() {
 <tr>
 <td>Tests passed/Failed/Skipped:</td><td>5/0/0</td>
 </tr><tr>
-<td>Started on:</td><td>Mon Mar 09 15:55:34 IST 2020</td>
+<td>Started on:</td><td>Mon Mar 09 16:36:32 IST 2020</td>
 </tr>
-<tr><td>Total time:</td><td>107 seconds (107757 ms)</td>
+<tr><td>Total time:</td><td>115 seconds (115773 ms)</td>
 </tr><tr>
 <td>Included groups:</td><td></td>
 </tr><tr>
@@ -77,27 +77,27 @@ function toggleAllBoxes() {
 <tr>
 <td title='com.training.sanity.tests.Multipleinputs.validLoginTest()'><b>validLoginTest</b><br>Test class: com.training.sanity.tests.Multipleinputs<br>Parameters: Fields Name, E-Mail, Password</td>
 <td></td>
-<td>3</td>
+<td>4</td>
 <td>com.training.sanity.tests.Multipleinputs@55f3ddb1</td></tr>
 <tr>
 <td title='com.training.sanity.tests.Multipleinputs.validLoginTest()'><b>validLoginTest</b><br>Test class: com.training.sanity.tests.Multipleinputs<br>Parameters: Test Data 1, neha@gmail.com, 23445.0</td>
 <td></td>
-<td>3</td>
+<td>5</td>
 <td>com.training.sanity.tests.Multipleinputs@55f3ddb1</td></tr>
 <tr>
 <td title='com.training.sanity.tests.Multipleinputs.validLoginTest()'><b>validLoginTest</b><br>Test class: com.training.sanity.tests.Multipleinputs<br>Parameters: Test Data 2, neha, neha</td>
 <td></td>
-<td>3</td>
+<td>4</td>
 <td>com.training.sanity.tests.Multipleinputs@55f3ddb1</td></tr>
 <tr>
 <td title='com.training.sanity.tests.Multipleinputs.validLoginTest()'><b>validLoginTest</b><br>Test class: com.training.sanity.tests.Multipleinputs<br>Parameters: Test Data 3, neha, sharma</td>
 <td></td>
-<td>2</td>
+<td>4</td>
 <td>com.training.sanity.tests.Multipleinputs@55f3ddb1</td></tr>
 <tr>
 <td title='com.training.sanity.tests.Multipleinputs.validLoginTest()'><b>validLoginTest</b><br>Test class: com.training.sanity.tests.Multipleinputs<br>Parameters: Test Data 4, neha2, neha2</td>
 <td></td>
-<td>2</td>
+<td>4</td>
 <td>com.training.sanity.tests.Multipleinputs@55f3ddb1</td></tr>
 </table><p>
 </body>

diff --git a/final-framework-testng/tests/com/training/sanity/tests/Multipleinputs.java b/final-framework-testng/tests/com/training/sanity/tests/Multipleinputs.java
@@ -62,6 +62,7 @@ public class Multipleinputs {
 		homePOM.clickLogin_btn();		
 		loginPOM.sendUserName(EMail);
 		loginPOM.sendPassword(Password);
+		loginPOM.clickLoginBtn();
 		screenShot.captureScreenShot("FieldsName");
 		
 		
